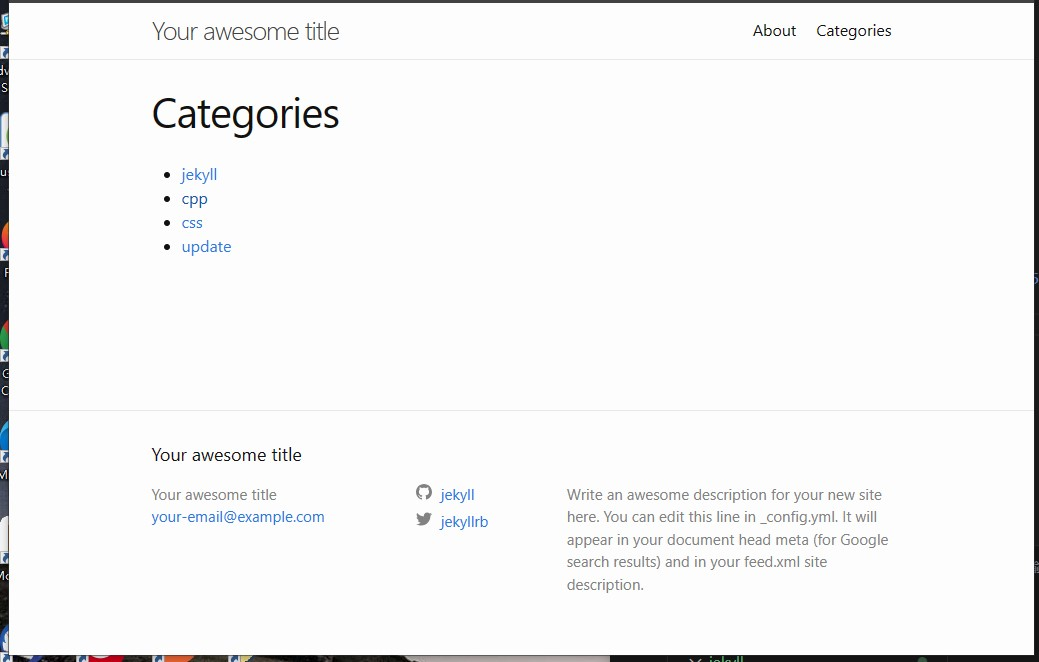
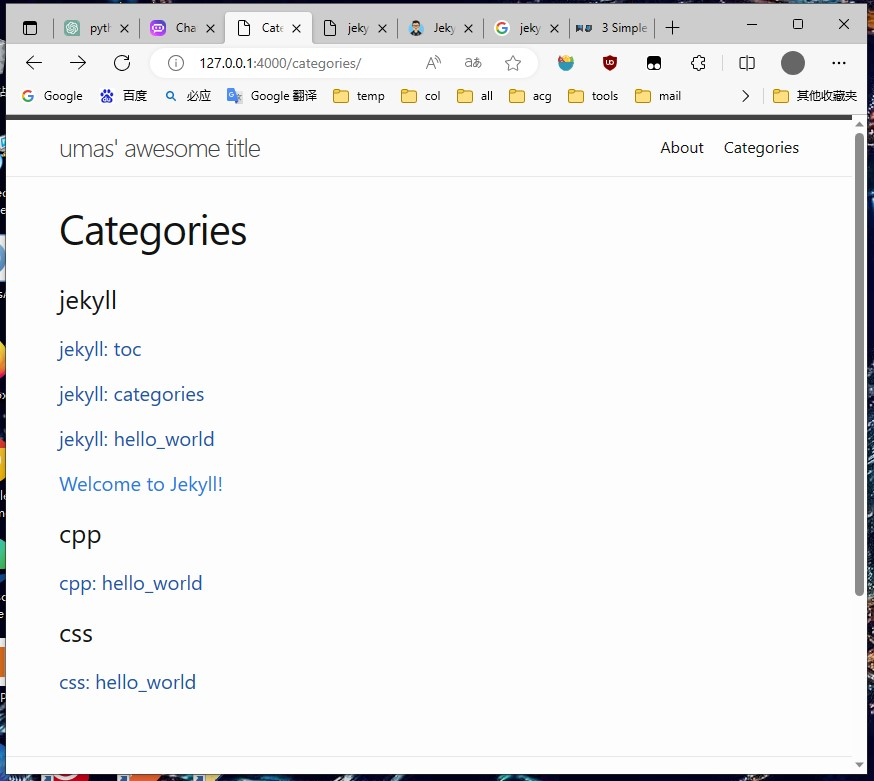
fix category

diff --git a/docs/jekyll/categories/index.html b/docs/jekyll/categories/index.html
@@ -7,8 +7,8 @@
 <meta name="generator" content="Jekyll v4.3.2" />
 <meta property="og:title" content="jekyll: categories" />
 <meta property="og:locale" content="en_US" />
-<meta name="description" content="参考 Jekyll个人博客添加分类Category功能" />
-<meta property="og:description" content="参考 Jekyll个人博客添加分类Category功能" />
+<meta name="description" content="参考 Jekyll个人博客添加分类Category功能 3 Simple steps to setup Jekyll Categories and Tags" />
+<meta property="og:description" content="参考 Jekyll个人博客添加分类Category功能 3 Simple steps to setup Jekyll Categories and Tags" />
 <link rel="canonical" href="/jekyll/categories/" />
 <meta property="og:url" content="/jekyll/categories/" />
 <meta property="og:site_name" content="umas’ awesome title" />
@@ -17,7 +17,7 @@
 <meta name="twitter:card" content="summary" />
 <meta property="twitter:title" content="jekyll: categories" />
 <script type="application/ld+json">
-{"@context":"https://schema.org","@type":"BlogPosting","dateModified":"2023-06-27T13:00:00+08:00","datePublished":"2023-06-27T13:00:00+08:00","description":"参考 Jekyll个人博客添加分类Category功能","headline":"jekyll: categories","mainEntityOfPage":{"@type":"WebPage","@id":"/jekyll/categories/"},"url":"/jekyll/categories/"}</script>
+{"@context":"https://schema.org","@type":"BlogPosting","dateModified":"2023-06-27T13:00:00+08:00","datePublished":"2023-06-27T13:00:00+08:00","description":"参考 Jekyll个人博客添加分类Category功能 3 Simple steps to setup Jekyll Categories and Tags","headline":"jekyll: categories","mainEntityOfPage":{"@type":"WebPage","@id":"/jekyll/categories/"},"url":"/jekyll/categories/"}</script>
 <!-- End Jekyll SEO tag -->
 <link rel="stylesheet" href="/assets/main.css"><link type="application/atom+xml" rel="alternate" href="/feed.xml" title="umas&apos; awesome title" /></head>
 <body><header class="site-header" role="banner">
@@ -58,6 +58,7 @@
     <h2 id="参考">参考</h2>
 <ul>
   <li><a href="https://zoharandroid.github.io/2019-08-02-Jekyll%E4%B8%AA%E4%BA%BA%E5%8D%9A%E5%AE%A2%E6%B7%BB%E5%8A%A0%E5%88%86%E7%B1%BBCategory%E5%8A%9F%E8%83%BD/">Jekyll个人博客添加分类Category功能</a></li>
+  <li><a href="https://blog.webjeda.com/jekyll-categories/">3 Simple steps to setup Jekyll Categories and Tags</a></li>
 </ul>
 
 <h2 id="实现">实现</h2>
@@ -95,17 +96,43 @@
     <div class="language-html highlighter-rouge"><div class="highlight"><pre class="highlight"><code> ---
  layout: page
  permalink: /categories/
- title: categories
+ title: Categories
  ---
+
+
  <span class="nt">&lt;div</span> <span class="na">id=</span><span class="s">"archives"</span><span class="nt">&gt;</span>
-     <span class="nt">&lt;ul&gt;</span>
-         {% for category in site.categories %}
-         <span class="nt">&lt;li&gt;</span>
-             <span class="nt">&lt;a</span> <span class="na">href=</span><span class="s">"{{ site.baseurl }}/{{ category | first | slugify }}"</span><span class="nt">&gt;</span>{{ category | first }}<span class="nt">&lt;/a&gt;</span>
-         <span class="nt">&lt;/li&gt;</span>
-         {% endfor %}
-     <span class="nt">&lt;/ul&gt;</span>
+
+ {% for category in site.categories %}
+ <span class="nt">&lt;div</span> <span class="na">class=</span><span class="s">"archive-group"</span><span class="nt">&gt;</span>
+     {% capture category_name %}{{ category | first }}{% endcapture %}
+     <span class="nt">&lt;div</span> <span class="na">id=</span><span class="s">"#{{ category_name | slugize }}"</span><span class="nt">&gt;&lt;/div&gt;</span>
+     <span class="nt">&lt;p&gt;&lt;/p&gt;</span>
+
+     <span class="nt">&lt;h3</span> <span class="na">class=</span><span class="s">"category-head"</span><span class="nt">&gt;</span>{{ category_name }}<span class="nt">&lt;/h3&gt;</span>
+     <span class="nt">&lt;a</span> <span class="na">name=</span><span class="s">"{{ category_name | slugize }}"</span><span class="nt">&gt;&lt;/a&gt;</span>
+     {% for post in site.categories[category_name] %}
+     <span class="nt">&lt;article</span> <span class="na">class=</span><span class="s">"archive-item"</span><span class="nt">&gt;</span>
+     <span class="nt">&lt;h4&gt;&lt;a</span> <span class="na">href=</span><span class="s">"{{ site.baseurl }}{{ post.url }}"</span><span class="nt">&gt;</span>{{post.title}}<span class="nt">&lt;/a&gt;&lt;/h4&gt;</span>
+     <span class="nt">&lt;/article&gt;</span>
+     {% endfor %}
  <span class="nt">&lt;/div&gt;</span>
+ {% endfor %}
+ <span class="nt">&lt;/div&gt;</span>
+</code></pre></div>    </div>
+  </li>
+  <li>
+    <p>上面的categories.html直接显示了所有的文章，当文章数量很多时很不友好，可以在顶部添加一个对category的导航</p>
+
+    <div class="language-html highlighter-rouge"><div class="highlight"><pre class="highlight"><code> <span class="c">&lt;!-- 顶部导航 --&gt;</span>
+ <span class="nt">&lt;hr&gt;</span>
+ <span class="nt">&lt;nav</span> <span class="na">id=</span><span class="s">"category-toc"</span><span class="nt">&gt;</span>
+ <span class="nt">&lt;ul&gt;</span>
+     {% for category in site.categories %}
+     <span class="nt">&lt;li&gt;&lt;a</span> <span class="na">href=</span><span class="s">"#{{ category | first | slugify }}"</span><span class="nt">&gt;</span>{{ category | first }}<span class="nt">&lt;/a&gt;&lt;/li&gt;</span>
+     {% endfor %}
+ <span class="nt">&lt;/ul&gt;</span>
+ <span class="nt">&lt;/nav&gt;</span>
+ <span class="nt">&lt;hr&gt;</span>
 </code></pre></div>    </div>
   </li>
   <li>效果</li>

diff --git a/docs/categories/index.html b/docs/categories/index.html
@@ -44,21 +44,78 @@
 
   <div class="post-content">
     <div id="archives">
+
+  <!-- 顶部导航 -->
+  <hr>
+  <nav id="category-toc">
     <ul>
-        
-          <li>
-            <a href="/jekyll">jekyll</a>
-          </li>
-        
-          <li>
-            <a href="/cpp">cpp</a>
-          </li>
-        
-          <li>
-            <a href="/css">css</a>
-          </li>
-        
-      </ul>
+      
+      <li><a href="#jekyll">jekyll</a></li>
+      
+      <li><a href="#cpp">cpp</a></li>
+      
+      <li><a href="#css">css</a></li>
+      
+    </ul>
+  </nav>
+  <hr>
+
+  <!-- 所有文章 -->
+  
+  <div class="archive-group">
+    
+    <div id="#jekyll"></div>
+    <p></p>
+
+    <h3 class="category-head">jekyll</h3>
+    <a name="jekyll"></a>
+    
+    <article class="archive-item">
+      <h4><a href="/jekyll/toc/">jekyll: toc</a></h4>
+    </article>
+    
+    <article class="archive-item">
+      <h4><a href="/jekyll/categories/">jekyll: categories</a></h4>
+    </article>
+    
+    <article class="archive-item">
+      <h4><a href="/jekyll/hello_world/">jekyll: hello_world</a></h4>
+    </article>
+    
+    <article class="archive-item">
+      <h4><a href="/jekyll/welcome-to-jekyll/">Welcome to Jekyll!</a></h4>
+    </article>
+    
+  </div>
+  
+  <div class="archive-group">
+    
+    <div id="#cpp"></div>
+    <p></p>
+
+    <h3 class="category-head">cpp</h3>
+    <a name="cpp"></a>
+    
+    <article class="archive-item">
+      <h4><a href="/cpp/hello_world/">cpp: hello_world</a></h4>
+    </article>
+    
+  </div>
+  
+  <div class="archive-group">
+    
+    <div id="#css"></div>
+    <p></p>
+
+    <h3 class="category-head">css</h3>
+    <a name="css"></a>
+    
+    <article class="archive-item">
+      <h4><a href="/css/basic/">css: hello_world</a></h4>
+    </article>
+    
+  </div>
+  
 </div>
   </div>
 

diff --git a/hello_umas/categories.html b/hello_umas/categories.html
@@ -4,12 +4,34 @@ permalink: /categories/
 title: Categories
 ---
 
+
 <div id="archives">
+
+  <!-- 顶部导航 -->
+  <hr>
+  <nav id="category-toc">
     <ul>
-        {% for category in site.categories %}
-          <li>
-            <a href="{{ site.baseurl }}/{{ category | first | slugify }}">{{ category | first }}</a>
-          </li>
-        {% endfor %}
-      </ul>
+      {% for category in site.categories %}
+      <li><a href="#{{ category | first | slugify }}">{{ category | first }}</a></li>
+      {% endfor %}
+    </ul>
+  </nav>
+  <hr>
+
+  <!-- 所有文章 -->
+  {% for category in site.categories %}
+  <div class="archive-group">
+    {% capture category_name %}{{ category | first }}{% endcapture %}
+    <div id="#{{ category_name | slugize }}"></div>
+    <p></p>
+
+    <h3 class="category-head">{{ category_name }}</h3>
+    <a name="{{ category_name | slugize }}"></a>
+    {% for post in site.categories[category_name] %}
+    <article class="archive-item">
+      <h4><a href="{{ site.baseurl }}{{ post.url }}">{{post.title}}</a></h4>
+    </article>
+    {% endfor %}
+  </div>
+  {% endfor %}
 </div>

diff --git a/docs/jekyll/hello_world/index.html b/docs/jekyll/hello_world/index.html
@@ -119,6 +119,15 @@
       <li>这条命令将网页构建到_site文件夹中，之后可以托管在服务器上</li>
     </ul>
   </li>
+  <li>
+    <p>打包后可以先用python启动本地服务器看一下效果</p>
+
+    <div class="language-plaintext highlighter-rouge"><div class="highlight"><pre class="highlight"><code> python -m http.server
+</code></pre></div>    </div>
+    <ul>
+      <li>访问：http://localhost:8000/</li>
+    </ul>
+  </li>
 </ol>
 
 <h2 id="套用主题">套用主题</h2>

diff --git a/hello_umas/_posts/Jekyll/2023-6-27-categories.md b/hello_umas/_posts/Jekyll/2023-6-27-categories.md
@@ -10,7 +10,7 @@ toc: true
 
 ## 参考
 - [Jekyll个人博客添加分类Category功能](https://zoharandroid.github.io/2019-08-02-Jekyll%E4%B8%AA%E4%BA%BA%E5%8D%9A%E5%AE%A2%E6%B7%BB%E5%8A%A0%E5%88%86%E7%B1%BBCategory%E5%8A%9F%E8%83%BD/)
-
+- [3 Simple steps to setup Jekyll Categories and Tags](https://blog.webjeda.com/jekyll-categories/)
 
 ## 实现
 
@@ -48,21 +48,48 @@ toc: true
     ---
     layout: page
     permalink: /categories/
-    title: categories
+    title: Categories
     ---
+
+
     <div id="archives">
-        <ul>
-            {% for category in site.categories %}
-            <li>
-                <a href="{{ site.baseurl }}/{{ category | first | slugify }}">{{ category | first }}</a>
-            </li>
-            {% endfor %}
-        </ul>
+
+    {% for category in site.categories %}
+    <div class="archive-group">
+        {% capture category_name %}{{ category | first }}{% endcapture %}
+        <div id="#{{ category_name | slugize }}"></div>
+        <p></p>
+
+        <h3 class="category-head">{{ category_name }}</h3>
+        <a name="{{ category_name | slugize }}"></a>
+        {% for post in site.categories[category_name] %}
+        <article class="archive-item">
+        <h4><a href="{{ site.baseurl }}{{ post.url }}">{{post.title}}</a></h4>
+        </article>
+        {% endfor %}
+    </div>
+    {% endfor %}
     </div>
     ```
     {% endraw %}
 
-5. 效果
+5. 上面的categories.html直接显示了所有的文章，当文章数量很多时很不友好，可以在顶部添加一个对category的导航
+   {% raw %}
+    ```html
+    <!-- 顶部导航 -->
+    <hr>
+    <nav id="category-toc">
+    <ul>
+        {% for category in site.categories %}
+        <li><a href="#{{ category | first | slugify }}">{{ category | first }}</a></li>
+        {% endfor %}
+    </ul>
+    </nav>
+    <hr>
+    ```
+    {% endraw %}
+    
+6. 效果
 
 ![home]({{site.url}}/image/jekyll/2023-6-27-230627_categories/image_1.jpg)
 ![cate]({{site.url}}/image/jekyll/2023-6-27-230627_categories/image_2.jpg)

diff --git a/README.md b/README.md
@@ -1,16 +1,21 @@
 # blog.md
 编程学习记录极简版
 
-- 1_example
-  - 存放各种hello_world项目
-- 2_test
-  - 代码临时调试
-- 3_doing
-  - 感觉可行的项目，先收藏在这里
-- 4_trash
-  - 没搞好的烂尾项目
-- zip_xxx
-  - 具体项目
+
+## 常用命令
+- 启动
+```
+jekyll serve
+```
+
+- 打包
+```
+jekyll build --source hello_umas --destination docs
+```
+
+## 待办
+- P0
+  - Categories页点击具体类别404
 
 
 
